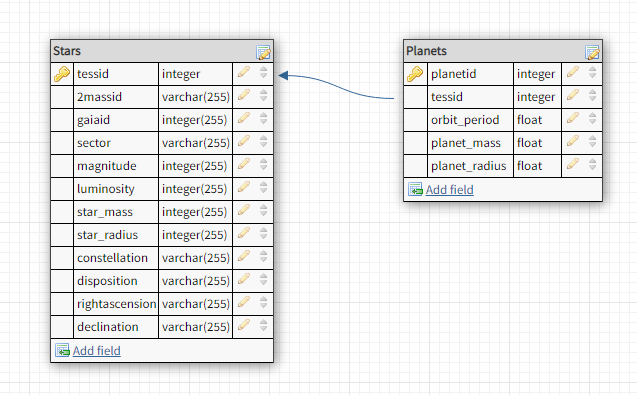
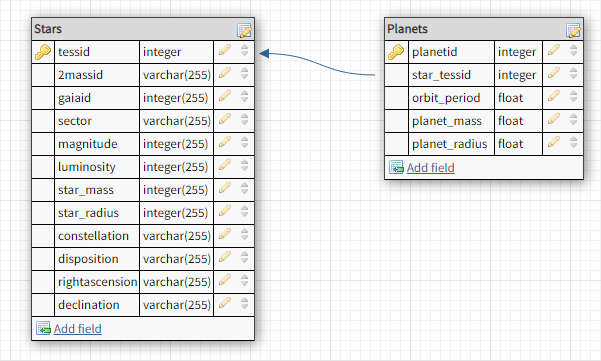
Fixed findPlanetsbyTessId

diff --git a/data/models/starModel.js b/data/models/starModel.js
@@ -29,7 +29,7 @@ function findBy(filter) {
 
 function findPlanetsByTessId(tessid) {
     return db('planets')
-        .where({ tessid });
+        .where({ star_tessid: tessid });
 }
 
 //Not using all of the CRUD api, so I've commented these out.
